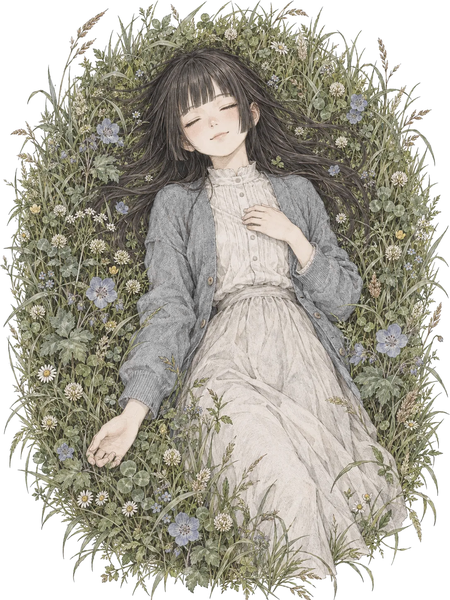
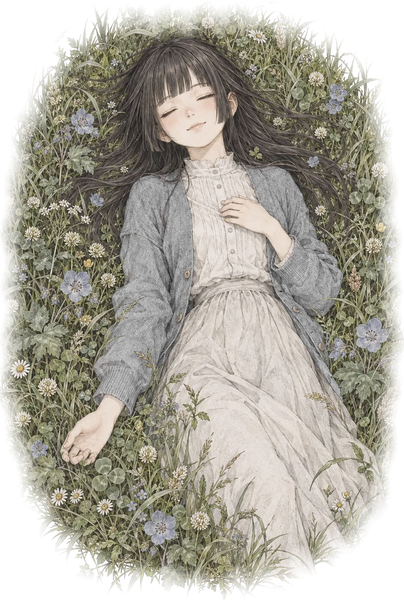
Desk terminal: wider, a larger portrait, the label centred on it
The desk terminal is a little wider (32.8 % of the screen), so the gap
from it to the plate's big leaf is the same as to the screen's edge.

The portrait is trimmed into the meadow's ragged edge along a wavering
rounded cut, feathered, so the girl fills more of the card. archive-card
now measures the label first (a quiet fastfetch run: its widest line and
its lines), makes the portrait as large as the room beside it allows,
and drops the label so it sits level with the portrait's middle.

The label is narrower: the model once (ROG Zephyrus G14 · GA403UV) and
both graphics chips on one line without the makers' words.

Claude-Session: https://claude.ai/code/session_01Gt7tu4gfoEos1TAjQ1a4QF

diff --git a/tools/import_portrait.py b/tools/import_portrait.py
@@ -9,6 +9,8 @@ that, laid over white, gives what was drawn, with as much transparency as
 the white allowed), so it can be printed onto the terminal's own paper by
 day and turned into a cyanotype by night (archive-card does both).
 
+Then it is trimmed into the meadow's edge (TRIM), the cut feathered.
+
 Writes dotfiles/.config/fastfetch/portrait.png (RGBA, 600 px tall).
 """
 import pathlib
@@ -21,6 +23,12 @@ ROOT = pathlib.Path(__file__).resolve().parent.parent
 SRC = ROOT / "art" / "portrait" / "meadow.webp"
 DST = ROOT / "dotfiles" / ".config" / "fastfetch" / "portrait.png"
 HEIGHT = 600
+# then trimmed in from each side (fractions of the drawing: left, top, right,
+# bottom), into the meadow's ragged edge, so the girl fills more of the
+# card; the cut is feathered, the grass fading out like ink run dry
+TRIM = (0.06, 0.02, 0.06, 0.0)
+FEATHER = 0.12         # how far in from the cut the grass starts fading
+ROUND = 3.2            # the cut's shape: 2 an ellipse, higher squarer
 
 
 def colour_to_alpha(rgb):
@@ -42,6 +50,21 @@ def main():
     box = rgba.getchannel("A").point(lambda v: 255 if v > 8 else 0).getbbox()
     rgba = rgba.crop(box)
     w, h = rgba.size
+    l, t, r, b = TRIM
+    rgba = rgba.crop((round(w * l), round(h * t), round(w * (1 - r)), round(h * (1 - b))))
+    w, h = rgba.size
+    # the cut follows a rounded oblong (a superellipse), wavering like the
+    # meadow's own edge, and fades out over its last stretch
+    ys, xs = np.mgrid[0:h, 0:w].astype(np.float32)
+    u, v = (xs + 0.5) / w * 2 - 1, (ys + 0.5) / h * 2 - 1
+    d = (np.abs(u) ** ROUND + np.abs(v) ** ROUND) ** (1 / ROUND)
+    ang = np.arctan2(v, u)
+    rng = np.random.default_rng(7)
+    waver = sum(rng.uniform(0.004, 0.012) * np.sin(k * ang + rng.uniform(0, 6.3)) for k in (5, 9, 14, 23, 37))
+    fade = np.clip((1.0 + waver - d) / FEATHER, 0, 1) ** 1.4
+    px = np.asarray(rgba).astype(np.float32)
+    px[..., 3] *= fade
+    rgba = Image.fromarray(px.round().astype(np.uint8), "RGBA")
     rgba = rgba.resize((round(w * HEIGHT / h), HEIGHT), Image.Resampling.LANCZOS)
     rgba.save(DST, optimize=True)
     print("portrait:", DST.relative_to(ROOT), rgba.size)
